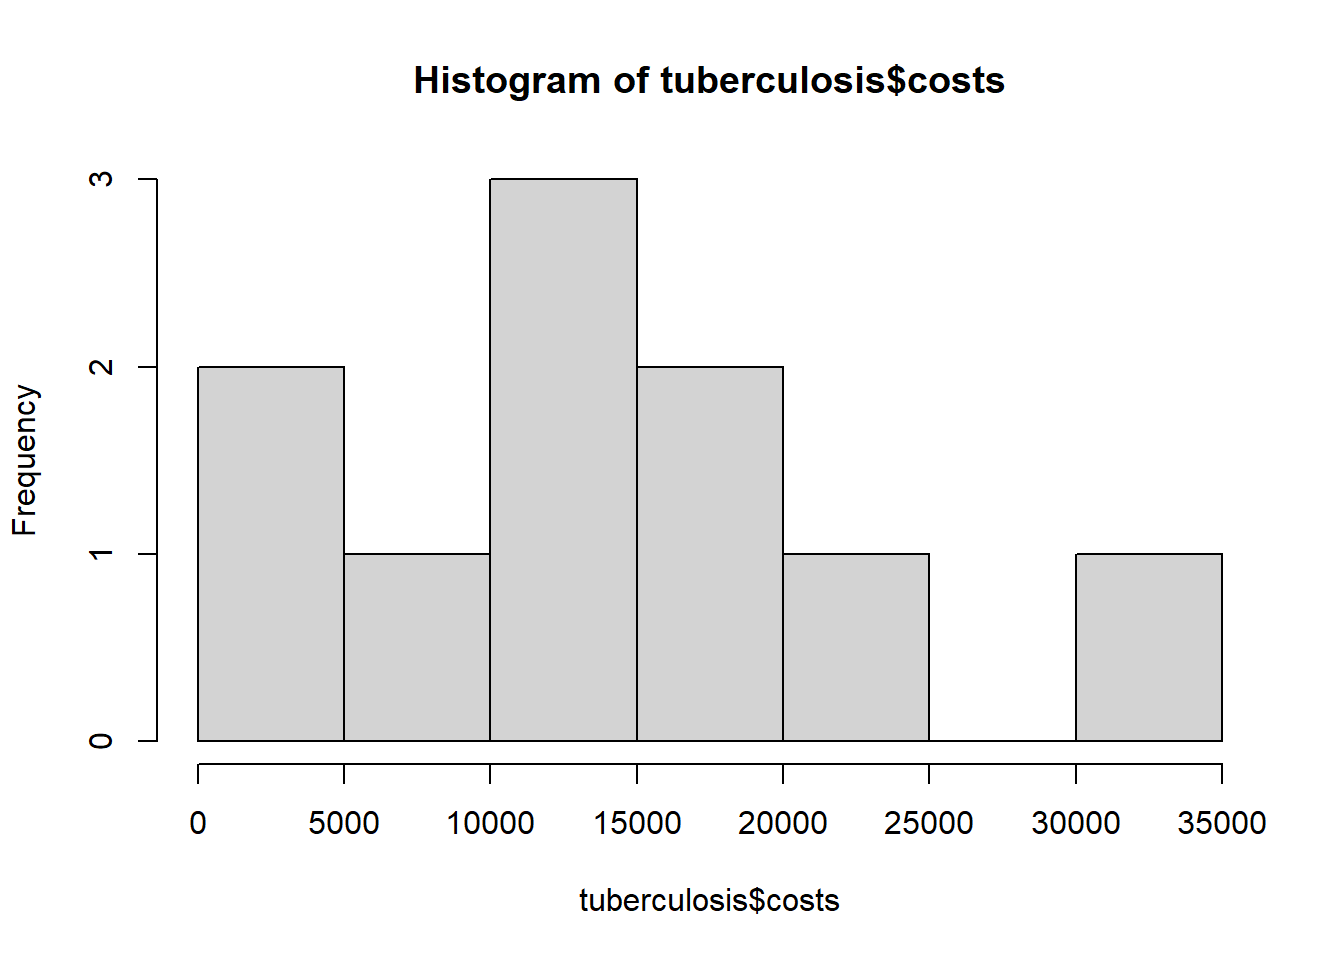
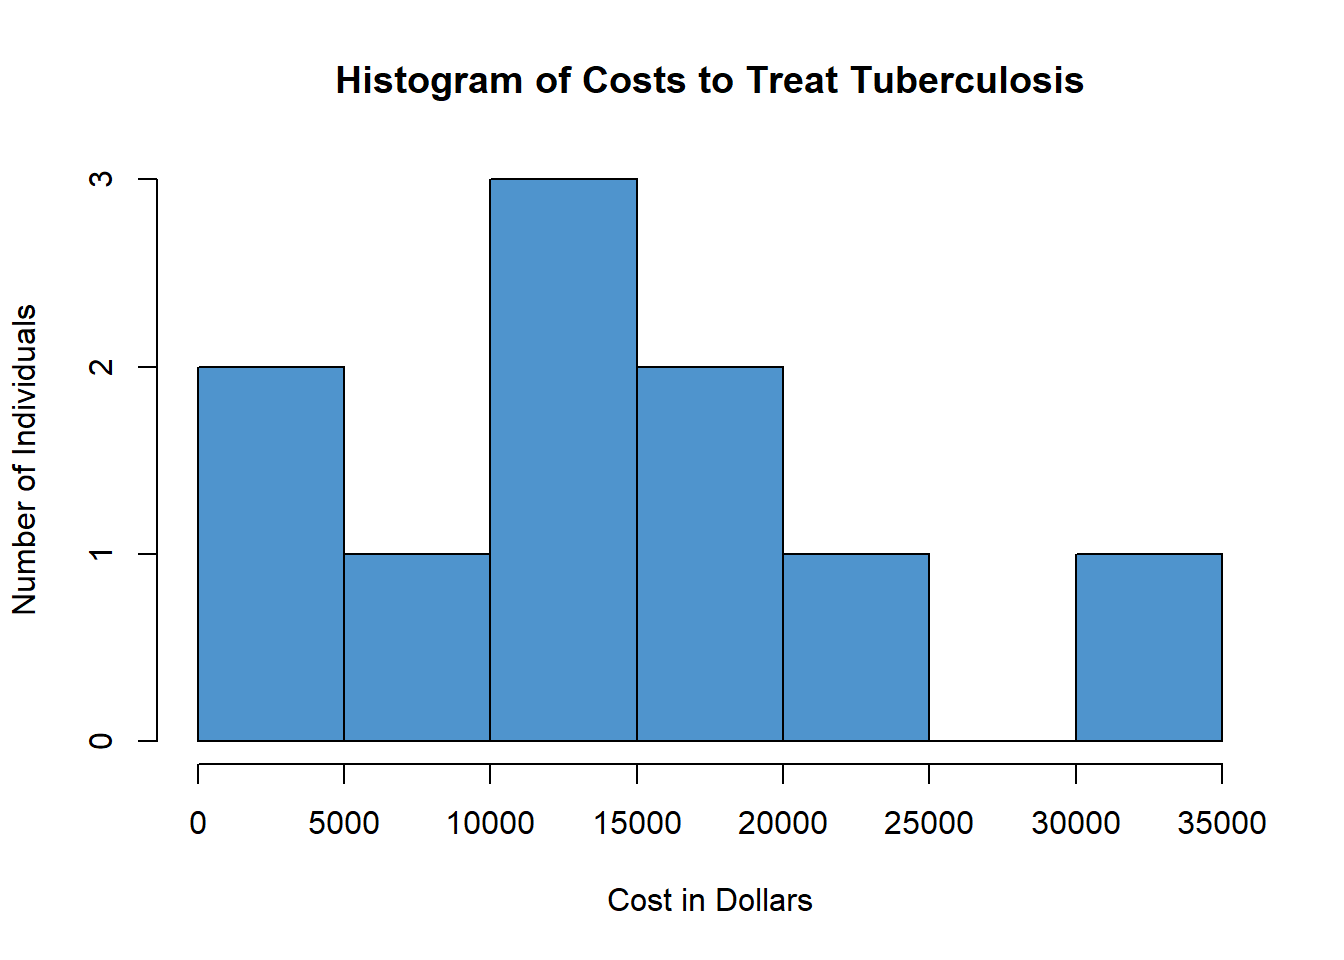
Revised L03

diff --git a/docs/Lesson03.html b/docs/Lesson03.html
@@ -755,19 +755,17 @@ this lesson, simply run the following command in RStudio:</strong></p>
 them by referencing their name. For example, to view the
 <em>tuberculosis</em> data, simply run the command</p>
 <pre class="r"><code>  View(tuberculosis)</code></pre>
-<pre><code># A tibble: 10 × 2
-   costs comments                         
-   &lt;dbl&gt; &lt;chr&gt;                            
- 1 15100 Cost (in US dollars) to treat    
- 2 19000 tuberculosis patients in India.  
- 3  4800 Used in the textbook in Lesson 3.
- 4  6500 &lt;NA&gt;                             
- 5 14900 &lt;NA&gt;                             
- 6   600 &lt;NA&gt;                             
- 7 23500 &lt;NA&gt;                             
- 8 11500 &lt;NA&gt;                             
- 9 12900 &lt;NA&gt;                             
-10 32200 &lt;NA&gt;                             </code></pre>
+<pre><code>   costs                          comments
+1  15100     Cost (in US dollars) to treat
+2  19000   tuberculosis patients in India.
+3   4800 Used in the textbook in Lesson 3.
+4   6500                              &lt;NA&gt;
+5  14900                              &lt;NA&gt;
+6    600                              &lt;NA&gt;
+7  23500                              &lt;NA&gt;
+8  11500                              &lt;NA&gt;
+9  12900                              &lt;NA&gt;
+10 32200                              &lt;NA&gt;</code></pre>
 <p><br /></p>
 <p><br> <strong>To calculate numerical summaries</strong> (such as the
 mean, median, and mode) in R, do the following: <br /></p>
@@ -782,23 +780,36 @@ variable.</p>
 <pre class="r"><code>tuberculosis$costs</code></pre>
 <pre><code>##  [1] 15100 19000  4800  6500 14900   600 23500 11500 12900 32200</code></pre>
 <p>We can perform calculations on these values.</p>
-<p><strong>Calculate a Mean</strong></p>
-<p>For the tuberculosis patient costs in India, we compute the mean with
-the R code:</p>
-<pre class="r"><code>mean(tuberculosis$costs)</code></pre>
-<pre><code>## [1] 14100</code></pre>
-<p>The value given above is the output from this command and represents
-the mean cost to treat the tuberculosis patients in our sample.</p>
+<p><strong>Using the R command favstats()</strong></p>
+<p>In R, there are some commands that are included in the basic
+installation (base R). There are other commands that can be added to the
+available library of options. To add additional functionality to R, we
+install “packages” that have the desired capabilities. Each package only
+needs to be installed once, then you can load the package when you want
+to use it.</p>
+<p>One such library is called <code>mosaic</code>. To install this
+package, enter the following in the RStudio Console:</p>
+<pre class="r"><code>install.packages(&quot;mosaic&quot;)</code></pre>
+<p>This only needs to be done one time. When you want to use this
+package in a R session, enter the command:</p>
+<pre class="r"><code>library(mosaic)</code></pre>
+<p>This library includes a slick command that will compute several
+important summary statistics at once: <code>favstats()</code>. Among
+other things, this command will compute the mean and median of a
+variable.</p>
+<p><strong>Calculate a Mean or Median</strong></p>
+<p>For the tuberculosis patient costs in India, we compute the mean and
+median with the R code:</p>
+<pre class="r"><code>library(mosaic)
+favstats(tuberculosis$costs)</code></pre>
+<pre><code>##  min   Q1 median    Q3   max  mean       sd  n missing
+##  600 7750  13900 18025 32200 14100 9287.507 10       0</code></pre>
+<p>This output gives the mean and median cost to treat the tuberculosis
+patients in our sample. The mean cost is $14100, and the median is
+$13900. There are other values presented as well, which we will learn
+later.</p>
 <!-- In RStudio this looks like: -->
 <!-- <img src = "Images/rstudio_tuberc_mean.png" width = "500"> -->
-<p><br></p>
-<p><strong>Calculate a Median</strong></p>
-<p>For the tuberculosis patient costs in India, compute the median with
-the R code:</p>
-<pre class="r"><code>median(tuberculosis$costs)</code></pre>
-<pre><code>## [1] 13900</code></pre>
-<p>The value printed above is the median cost of treating tuberculosis
-in our sample.</p>
 <p><br /></p>
 <p><strong>Calculate a Mode</strong></p>
 <p>R does not directly calculate a mode, but you can tabulate (or count)
@@ -806,7 +817,8 @@ how many times each value in the data occurs using the
 <code>table(...)</code> function.</p>
 <p>For the tuberculosis patient costs in India, count up how many times
 each value occurs using the code</p>
-<pre class="r"><code>table(tuberculosis$costs)</code></pre>
+<pre class="r"><code>library(mosaic)
+table(tuberculosis$costs)</code></pre>
 <pre><code>## 
 ##   600  4800  6500 11500 12900 14900 15100 19000 23500 32200 
 ##     1     1     1     1     1     1     1     1     1     1</code></pre>
@@ -915,7 +927,7 @@ $$
 showing that the *center* of the histogram (or average) is at \$14,100. 
 --></p>
 <p><strong>Histogram of these data created in R:</strong> <br></p>
-<p><img src="Lesson03_files/figure-html/unnamed-chunk-14-1.png" width="480" /></p>
+<p><img src="Lesson03_files/figure-html/unnamed-chunk-12-1.png" width="480" /></p>
 <p><br /></p>
 </div>
 <div id="r-instructions-for-histograms" class="section level3">
@@ -970,7 +982,7 @@ create a histogram using the <code>hist(...)</code> function.</p>
 store the data in the <code>tuberc</code> object, you would access the
 data and make a histogram of it using the code:</p>
 <pre class="r"><code>hist(tuberculosis$costs)</code></pre>
-<p><img src="Lesson03_files/figure-html/unnamed-chunk-16-1.png" width="672" /></p>
+<p><img src="Lesson03_files/figure-html/unnamed-chunk-14-1.png" width="672" /></p>
 </div>
 <p><!-- id = "r_instr_1" style = "display:none;"> --></p>
 </div>
@@ -1010,7 +1022,7 @@ the left of the y-axis of your graph.</li>
       main = &quot;Histogram of Costs to Treat Tuberculosis&quot;, 
       xlab = &quot;Cost in Dollars&quot;, 
       ylab = &quot;Number of Individuals&quot;)</code></pre>
-<p><img src="Lesson03_files/figure-html/unnamed-chunk-18-1.png" width="672" /></p>
+<p><img src="Lesson03_files/figure-html/unnamed-chunk-16-1.png" width="672" /></p>
 </div>
 <p><!-- id = "r_instr_1" style = "display:none;"> --></p>
 </div>
@@ -1110,7 +1122,7 @@ shows a long right tail. This can occur if there are some very large
 outliers on the right-hand side of the distribution. A distribution is
 left-skewed if a histogram shows that it has a long tail to the
 left.</p>
-<p><img src="Lesson03_files/figure-html/unnamed-chunk-19-1.png" width="672" /></p>
+<p><img src="Lesson03_files/figure-html/unnamed-chunk-17-1.png" width="672" /></p>
 <p><img src = "Images/Lesson_2_Activity_2-3.JPG" width = 130%></p>
 <p>If a distribution has only one peak, it is said to be
 <strong>unimodal</strong>. The three distributions illustrated above are
